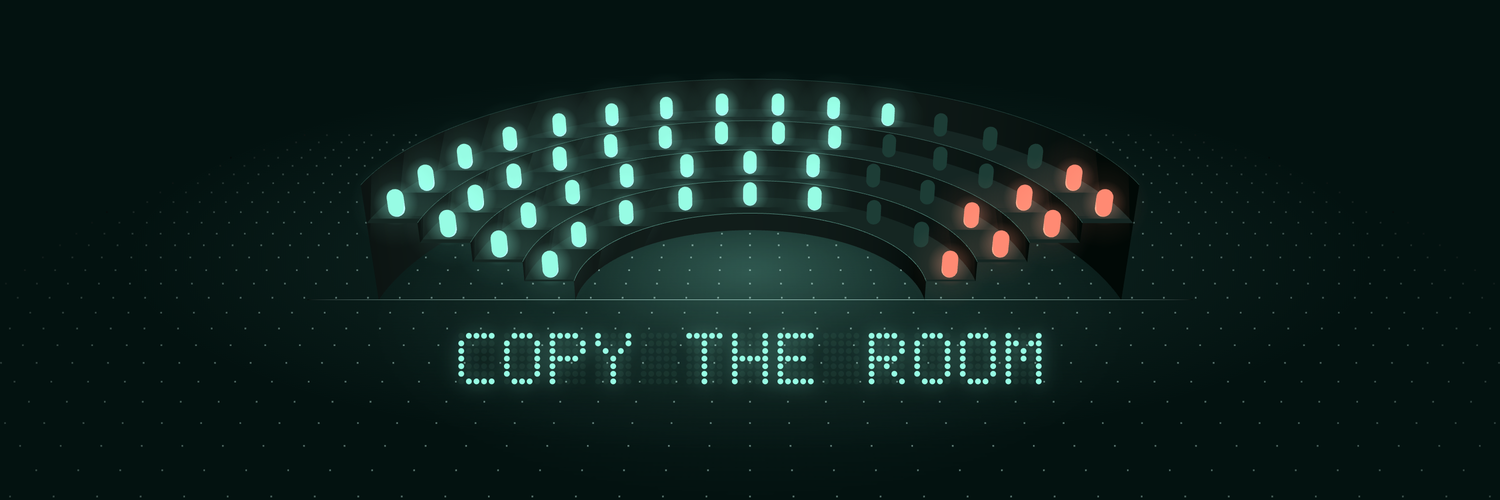
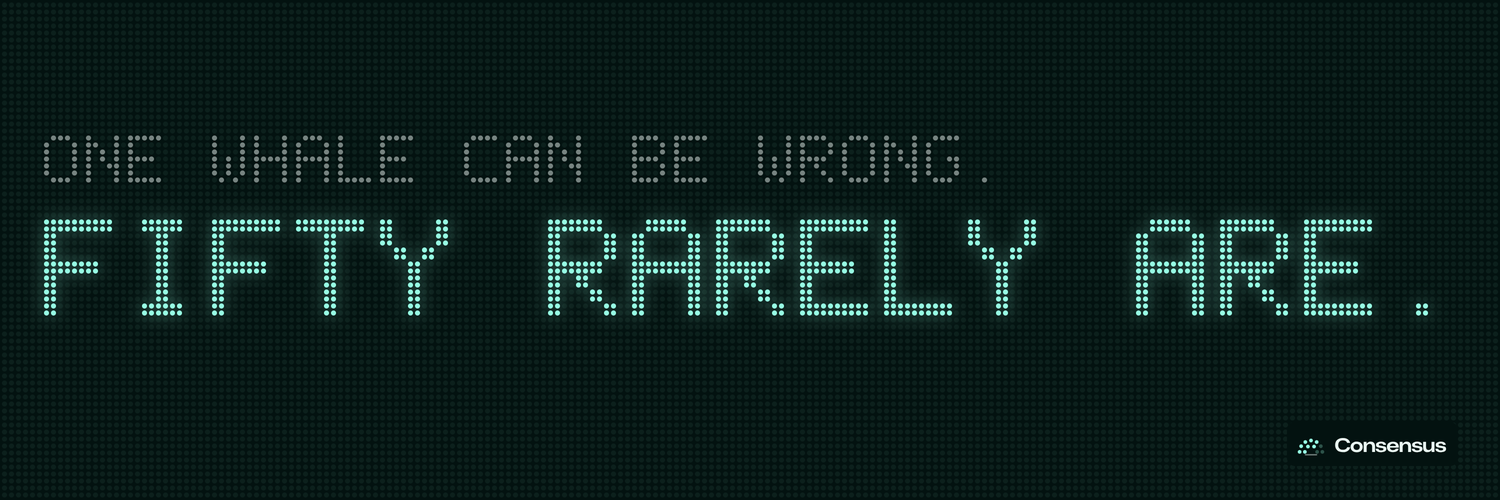
New line: "One whale can be wrong. Fifty rarely are."
Replaces "Copy the room" in the hero, page meta and README. The X banner
is now a full LED board with the line, so it no longer repeats the
coin image's chamber.

Claude-Session: https://claude.ai/code/session_011kkDhDoXML5cNQGAV3n7cn

Changed region(s): [[0.0, 0.18, 0.9507, 0.78], [0.8587, 0.87, 0.9813, 0.93], [0.0307, 0.27, 0.1227, 0.36]]

diff --git a/brand/render.ts b/brand/render.ts
@@ -15,6 +15,8 @@ type Shot = {
   seats: SeatKind[];
   halo: number;
   seatScale?: number;
+  /** A flat LED board instead of the chamber. */
+  panel?: () => string;
   overlay: (front: { x: number; y: number }, w: number, h: number) => string;
 };
 
@@ -40,8 +42,61 @@ const G: Record<string, string[]> = {
   U: ["#...#", "#...#", "#...#", "#...#", "#...#", "#...#", ".###."],
   Y: ["#...#", "#...#", ".#.#.", "..#..", "..#..", "..#..", "..#.."],
   $: ["..#..", ".####", "#.#..", ".###.", "..#.#", "####.", "..#.."],
+  B: ["####.", "#...#", "#...#", "####.", "#...#", "#...#", "####."],
+  F: ["#####", "#....", "#....", "####.", "#....", "#....", "#...."],
+  G: [".####", "#....", "#....", "#..##", "#...#", "#...#", ".###."],
+  I: [".###.", "..#..", "..#..", "..#..", "..#..", "..#..", ".###."],
+  L: ["#....", "#....", "#....", "#....", "#....", "#....", "#####"],
+  W: ["#...#", "#...#", "#...#", "#.#.#", "#.#.#", "#.#.#", ".#.#."],
+  ".": [".....", ".....", ".....", ".....", ".....", ".....", "..#.."],
   " ": [".....", ".....", ".....", ".....", ".....", ".....", "....."],
 };
+
+type PanelLine = { text: string; scale: number; row: number; col: number; color: string; opacity: number; glow?: boolean };
+
+/** A full LED board: every cell is a dot, and the text is the lit ones. */
+function ledPanel(w: number, h: number, cell: number, lines: PanelLine[]) {
+  const cols = Math.floor(w / cell);
+  const rows = Math.floor(h / cell);
+  const ox = (w - cols * cell) / 2;
+  const oy = (h - rows * cell) / 2;
+  const lit = new Map<string, number>();
+  lines.forEach((ln, li) =>
+    [...ln.text.toUpperCase()].forEach((ch, gi) =>
+      (G[ch] ?? G[" "]).forEach((row, y) =>
+        [...row].forEach((bit, x) => {
+          if (bit !== "#") return;
+          for (let sy = 0; sy < ln.scale; sy++)
+            for (let sx = 0; sx < ln.scale; sx++) lit.set(`${ln.col + (gi * 6 + x) * ln.scale + sx},${ln.row + y * ln.scale + sy}`, li);
+        }),
+      ),
+    ),
+  );
+  const r = cell * 0.36;
+  const off: string[] = [];
+  const on: string[][] = lines.map(() => []);
+  for (let y = 0; y < rows; y++)
+    for (let x = 0; x < cols; x++) {
+      const cx = (ox + x * cell + cell / 2).toFixed(1);
+      const cy = (oy + y * cell + cell / 2).toFixed(1);
+      const li = lit.get(`${x},${y}`);
+      if (li === undefined) off.push(`<circle cx="${cx}" cy="${cy}" r="${r}"/>`);
+      else on[li].push(`<circle cx="${cx}" cy="${cy}" r="${r}"/>`);
+    }
+  const svg = (body: string, style: string) =>
+    `<svg width="${w}" height="${h}" viewBox="0 0 ${w} ${h}" style="position:absolute;inset:0;overflow:visible;${style}">${body}</svg>`;
+  return (
+    svg(`<g fill="${MINT}" opacity="0.06">${off.join("")}</g>`, "") +
+    lines
+      .map((ln, i) =>
+        svg(
+          `<g fill="${ln.color}" opacity="${ln.opacity}">${on[i].join("")}</g>`,
+          ln.glow ? `filter:drop-shadow(0 0 ${cell * 1.2}px rgba(151,252,228,0.55))` : "",
+        ),
+      )
+      .join("")
+  );
+}
 
 function led(text: string, cell: number, color: string, glow = 0.55) {
   const chars = [...text.toUpperCase()].filter((c) => G[c]);
@@ -106,7 +161,16 @@ const SHOTS: Record<string, Shot> = {
       ["short", 7],
     ]),
     halo: 0.85,
-    overlay: (f) => `<div style="position:absolute;left:${f.x}px;top:${f.y + 26}px;transform:translateX(-50%)">${led("Copy the room", 7.6, MINT)}</div>`,
+    overlay: () => "",
+    // One whale in dim white, fifty in lit mint, on a board the size of the banner.
+    panel: () =>
+      ledPanel(1500, 500, 7, [
+        { text: "One whale can be wrong.", scale: 1, row: 19, col: 6, color: "#eaf6f2", opacity: 0.5 },
+        { text: "Fifty rarely are.", scale: 2, row: 31, col: 6, color: MINT, opacity: 1, glow: true },
+      ]) +
+      `<div style="position:absolute;right:42px;bottom:34px;display:flex;align-items:center;gap:10px;padding:8px 12px 8px 10px;background:${INK};border-radius:8px">
+        ${mark(28)}<span style="font:640 19px/1 'Mona Sans Variable';font-stretch:125%;letter-spacing:-0.02em;color:#eaf6f2">Consensus</span>
+      </div>`,
   },
   launch: {
     w: 1600,
@@ -148,6 +212,20 @@ canvas.style.cssText = "position:absolute;inset:0;width:100%;height:100%";
 const overlayEl = document.getElementById("overlay")!;
 overlayEl.style.cssText = "position:absolute;inset:0";
 
+if (shot.panel) {
+  canvas.style.display = "none";
+  frame.style.background = INK;
+  overlayEl.innerHTML = shot.panel();
+  document.fonts.ready.then(() =>
+    requestAnimationFrame(() => {
+      (window as unknown as { __done: boolean }).__done = true;
+    }),
+  );
+} else {
+  renderChamber();
+}
+
+function renderChamber() {
 // --- the chamber, same geometry as the site ---
 const TIERS = [
   { r: 1.62, n: 9 },
@@ -355,3 +433,4 @@ document.fonts.ready.then(() => {
     (window as unknown as { __done: boolean }).__done = true;
   });
 });
+}

diff --git a/index.html b/index.html
@@ -4,13 +4,13 @@
     <meta charset="UTF-8" />
     <meta name="viewport" content="width=device-width, initial-scale=1.0" />
     <meta name="theme-color" content="#06201b" />
-    <title>Consensus: copy the room, not a whale</title>
+    <title>Consensus: one whale can be wrong, fifty rarely are</title>
     <meta
       name="description"
       content="Consensus ranks Hyperliquid's traders on consistency, reads how the top 50 are positioned every minute, and trades its creator fees only when they agree."
     />
     <meta property="og:title" content="Consensus" />
-    <meta property="og:description" content="Don't copy a whale. Copy the room. Live positioning of Hyperliquid's 50 most consistent traders." />
+    <meta property="og:description" content="One whale can be wrong. Fifty rarely are. Live positioning of Hyperliquid's 50 most consistent traders." />
     <link rel="icon" type="image/svg+xml" href="/favicon.svg" />
   </head>
   <body>

diff --git a/src/components/Hero.tsx b/src/components/Hero.tsx
@@ -80,8 +80,8 @@ export function Hero({
     <section className="hero" id="top" aria-labelledby="hero-h">
       <div className="hero-top">
         <h1 id="hero-h">
-          <span className="h-dim">Don’t copy a whale.</span>
-          <span>Copy the room.</span>
+          <span className="h-dim">One whale can be wrong.</span>
+          <span>Fifty rarely are.</span>
         </h1>
         <div className="hero-side">
           <p className="lede">

diff --git a/README.md b/README.md
@@ -1,6 +1,6 @@
 # Consensus ($CONSENSUS)
 
-"Don't copy a whale. Copy the room."
+"One whale can be wrong. Fifty rarely are."
 
 Rankar alla traders på Hyperliquid på hur jämnt de vinner, plockar ut de 50 mest konsekventa ("rummet") och läser deras öppna positioner varje minut. En coin signalerar när minst 10 av dem håller den och 70 % står på samma sida.
 
